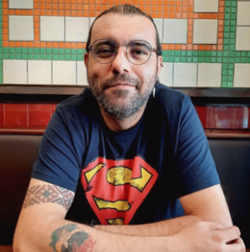
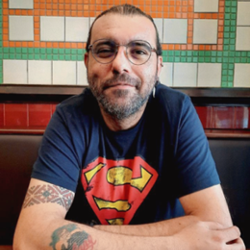
FIX pp frame

diff --git a/docs/index.html b/docs/index.html
@@ -42,7 +42,9 @@
   <!-- ======= Header ======= -->
   <header id="header">
     <div class="container">
-      <img id="profile-photo" class="rounded-circle z-depth-5" alt="H. Ibrahim YILMAZ - Senior DevOps Engineer" src="assets/img/ibrahim.png" data-holder-rendered="true">
+      <div id="cont">
+        <img class="rounded-circle z-depth-5" alt="H. Ibrahim YILMAZ - Senior DevOps Engineer" src="assets/img/ibrahim.png" data-holder-rendered="true">
+      </div>
       <h2>Hello, I am</h2>
       <h1><a href="index.html">H. Ibrahim YILMAZ</a></h1>
       <h2>I'm a passionate <span>Senior DevOps Engineer</span> from Sweden.</h2>
@@ -55,7 +57,6 @@
         <a href="https://twitter.com/drlinux_" target="_blank" class="twitter"><i class="bi bi-twitter"></i></a>
         <a href="https://www.youtube.com/channel/UCx99skPro3RfIchZL-RB_Qw" target="_blank" class="youtube"><i class="bi bi-youtube"></i></a>
       </div>
-
     </div>
   </header><!-- End Header -->
 

diff --git a/docs/assets/css/style.css b/docs/assets/css/style.css
@@ -449,3 +449,11 @@ section .container {
   border: antiquewhite;
   border-style: solid;
 }
+
+#cont {
+  background: -webkit-linear-gradient(left top, #ef5350, #f48fb1, #7e57c2, #2196f3, #26c6da, #43a047, #eeff41, #f9a825, #ff5722);
+  width: 255px;
+  height: 255px;
+  border-radius: 1000px;
+  padding: 3px;
+}
